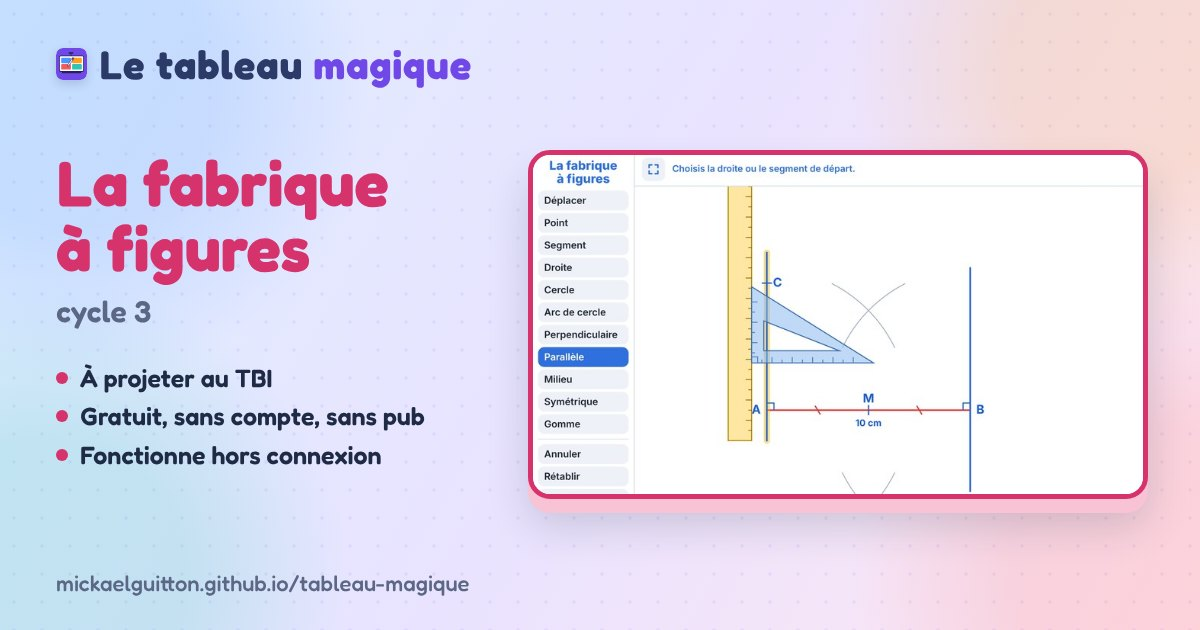
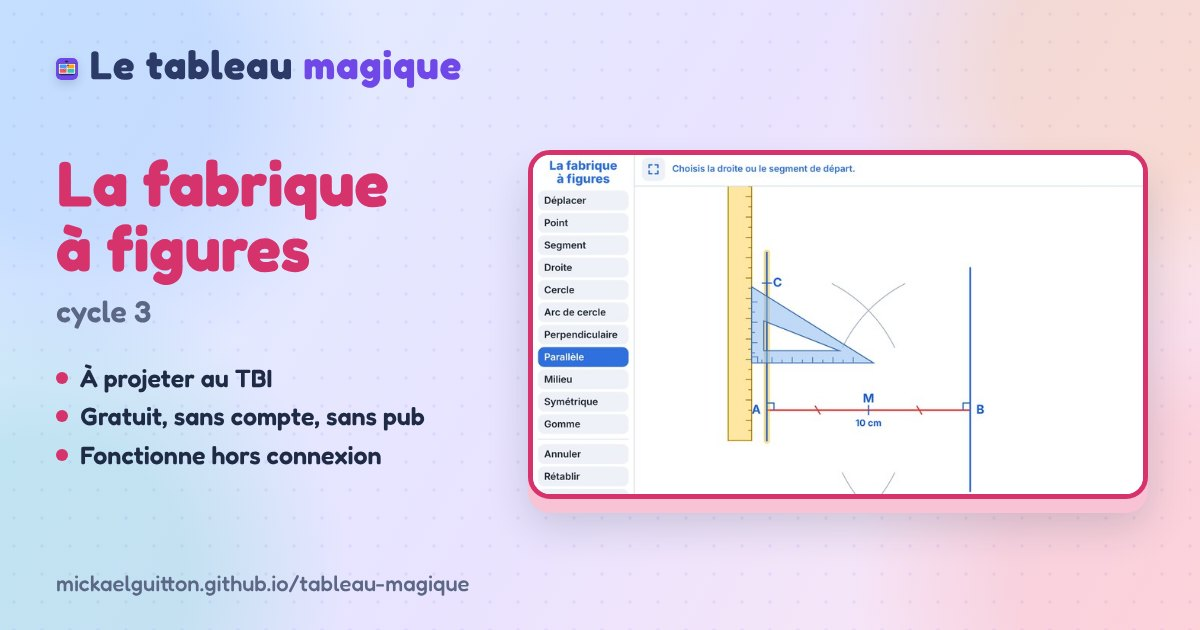
Portail v3.2 : icône devant le titre à la hauteur des minuscules
Claude-Session: https://claude.ai/code/session_01Te8xrvMufWVNSVLdwnm9Mc

Changed region(s): [[0.0308, 0.0603, 0.4008, 0.1508]]

diff --git a/index.html b/index.html
@@ -71,7 +71,7 @@
   }
   h1 .magique{color:#7048E8}
   /* Icône du portail devant le titre (la même que l'appli installée) */
-  h1 .icone-titre{height:.78em;width:auto;vertical-align:-.06em;margin-right:.28em;border-radius:22%;
+  h1 .icone-titre{height:.55em;width:auto;vertical-align:0;margin-right:.24em;border-radius:22%;
     box-shadow:0 4px 10px rgba(43,58,103,.18)}
   #accroche{
     font-size:clamp(14px,min(2vw,2.8vh),24px);font-weight:500;color:#5A6488;
